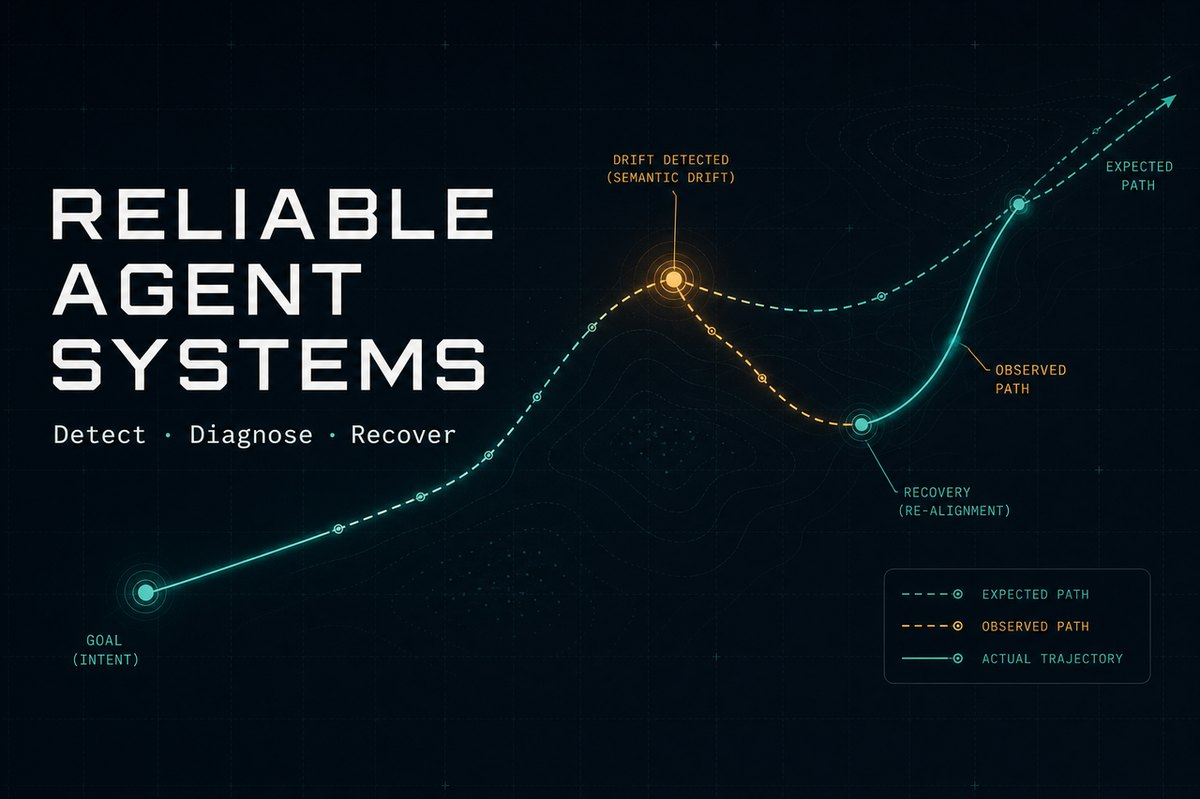
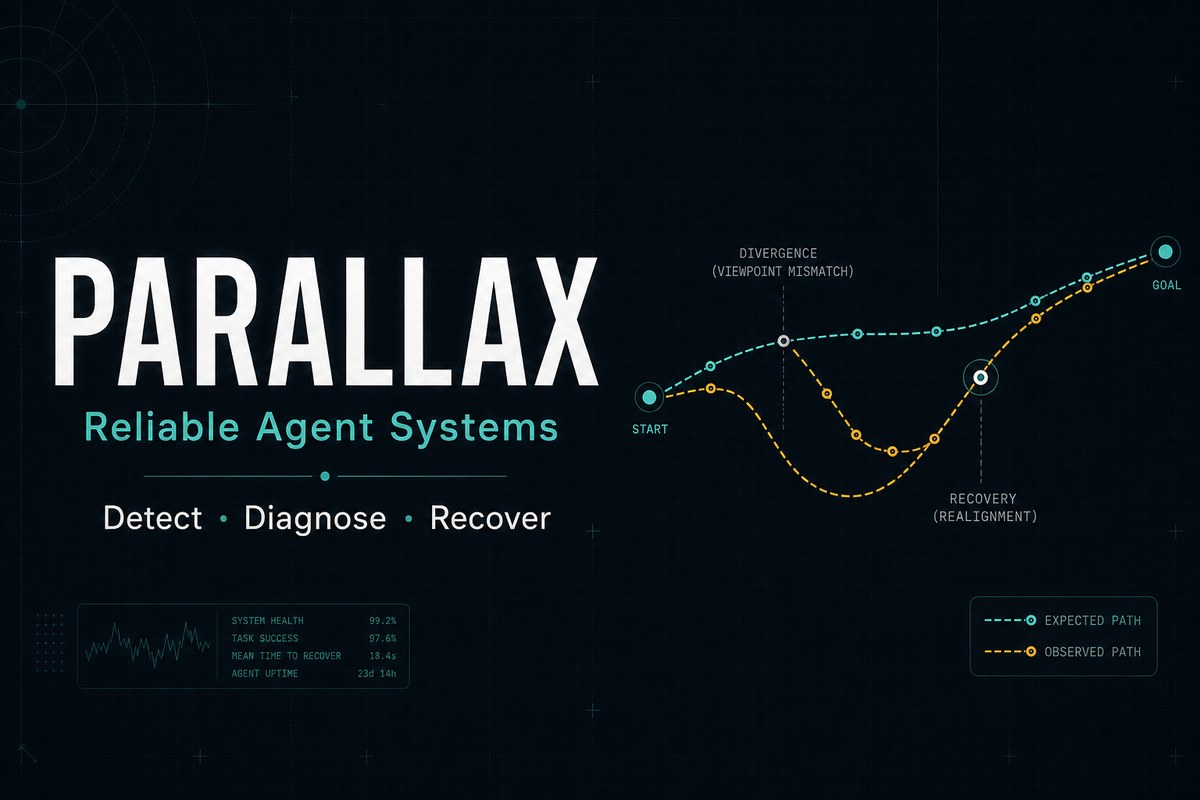
Rebrand README as Parallax with refreshed hero and asset links.
Align presentation with the renamed GitHub repository and keep the reliable-agent-systems research identity as the subtitle.

diff --git a/runtime/cli.py b/runtime/cli.py
@@ -6,7 +6,7 @@ from __future__ import annotations
 def main() -> None:
     from runtime import __version__
 
-    print(f"reliable-agent-systems {__version__}")
+    print(f"parallax {__version__}")
 
 
 if __name__ == "__main__":

diff --git a/scripts/generate_readme_assets.py b/scripts/generate_readme_assets.py
@@ -134,7 +134,7 @@ def draw_frame(active: int, pulse: float) -> Image.Image:
     gap_text = "aligned" if abs(0.82 - obs) < 0.05 else "divergence detected"
     draw.text((510, 436), f"Expected–observed gap: {gap_text}", fill=MUTED, font=detail_font)
 
-    draw.text((40, 488), "Reliable Agent Systems  ·  AgentFailBench × Semantic Monitor × RecoverAI", fill=MUTED, font=detail_font)
+    draw.text((40, 488), "Parallax  ·  AgentFailBench × Semantic Monitor × RecoverAI", fill=MUTED, font=detail_font)
     return img
 
 

diff --git a/README.md b/README.md
@@ -1,20 +1,20 @@
 <p align="center">
-  <img src="docs/assets/hero-banner.jpg" alt="Reliable Agent Systems — Detect, Diagnose, Recover" width="920" />
+  <img src="docs/assets/hero-banner.jpg" alt="Parallax — Reliable Agent Systems: Detect, Diagnose, Recover" width="920" />
 </p>
 
-<h1 align="center">Reliable Agent Systems</h1>
+<h1 align="center">Parallax</h1>
 
 <p align="center">
-  <strong>Detect when an agent is becoming unreliable — before the task fails.</strong>
+  <strong>When expectation and observation diverge, reliability is already failing.</strong>
 </p>
 
 <p align="center">
   Runtime reliability, diagnosis, and recovery for autonomous AI agents.<br/>
-  <em>AgentFailBench</em> · <em>Semantic Runtime Monitor</em> · <em>RecoverAI</em>
+  Research stack: <em>AgentFailBench</em> · <em>Semantic Runtime Monitor</em> · <em>RecoverAI</em>
 </p>
 
 <p align="center">
-  <a href="https://github.com/askmy-stack/reliable-agent-systems/actions/workflows/ci.yml"><img alt="CI" src="https://github.com/askmy-stack/reliable-agent-systems/actions/workflows/ci.yml/badge.svg" /></a>
+  <a href="https://github.com/askmy-stack/parallax/actions/workflows/ci.yml"><img alt="CI" src="https://github.com/askmy-stack/parallax/actions/workflows/ci.yml/badge.svg" /></a>
   <a href="https://www.python.org/downloads/"><img alt="Python 3.12+" src="https://img.shields.io/badge/python-3.12%2B-0d9488?logo=python&logoColor=white" /></a>
   <a href="LICENSE"><img alt="License MIT" src="https://img.shields.io/badge/license-MIT-1f2933" /></a>
   <a href="docs/research-proposal.md"><img alt="Research" src="https://img.shields.io/badge/status-research%20scaffold-f59e0b" /></a>
@@ -23,27 +23,25 @@
 
 ---
 
-## Why this exists
+## Why Parallax?
 
-Most agent stacks measure the wrong thing.
+In optics, **parallax** is the apparent shift of an object when viewed from two positions.
 
-Final task success. Token spend. HTTP status codes. Model confidence.
+In agent systems, the same failure mode appears as a gap between:
 
-Those signals miss the failures that matter in long-horizon tool use:
+| Viewpoint | Signal |
+| --- | --- |
+| **Expectation** | What the agent believed a tool, memory, or plan step meant |
+| **Observation** | What the environment actually returned |
 
-- the API returns **200** but a field’s **meaning** changed
-- memory is consistent — and **stale**
-- retrieval looks relevant — and **outdated**
-- the planner revises forever and never progresses
-
-By the time the task fails, the useful diagnostic window is gone.
+If those viewpoints drift while HTTP still returns `200`, classic monitors stay quiet — and the task fails later, with the diagnostic window already closed.
 
 <p align="center">
   <img src="docs/assets/semantic-drift.gif" alt="Animated expected vs observed path divergence (semantic drift)" width="720" />
 </p>
 
 <p align="center">
-  <em>Expectation and observation can diverge without throwing an exception.</em>
+  <em>Parallax measures that gap early — then diagnoses and recovers.</em>
 </p>
 
 ### Central question
@@ -58,9 +56,9 @@ By the time the task fails, the useful diagnostic window is gone.
   <img src="docs/assets/semantic-mismatch.jpg" alt="Expectation vs observation: tool semantic drift with HTTP 200" width="920" />
 </p>
 
-**Tool semantic drift** is the first vertical slice: the schema stays valid, the transport succeeds, and the agent silently acts on the wrong world model.
+**Tool semantic drift** is the first vertical slice: schema stays valid, transport succeeds, meaning changes. The agent acts on the wrong world model — and nothing throws.
 
-AgentFailBench injects that class of failure with ground-truth labels so detectors and recovery policies can be evaluated — not just demoed.
+AgentFailBench injects that class of failure with ground-truth labels so detectors and recovery policies can be evaluated, not just demoed.
 
 ---
 
@@ -129,8 +127,8 @@ flowchart TB
 Requires **Python 3.12+**.
 
 ```bash
-git clone https://github.com/askmy-stack/reliable-agent-systems.git
-cd reliable-agent-systems
+git clone https://github.com/askmy-stack/parallax.git
+cd parallax
 
 python -m venv .venv
 source .venv/bin/activate   # Windows: .venv\Scripts\activate
@@ -158,7 +156,7 @@ cat agentfailbench/failures/tool_drift/tool-semantic-drift-001.yaml
 ## Repository map
 
 ```text
-reliable-agent-systems/
+parallax/
 ├── agentfailbench/     # benchmark cases + injectors
 ├── runtime/            # semantic monitor + detectors
 ├── recovery/           # RecoverAI policies
@@ -215,11 +213,11 @@ Security reports: [`SECURITY.md`](SECURITY.md).
 ## Citation
 
 ```bibtex
-@software{kamineni2026reliable,
-  author = {Kamineni, Abhinaysai},
-  title  = {Reliable Agent Systems: Runtime Reliability, Diagnosis, and Recovery for Autonomous AI Agents},
-  year   = {2026},
-  url    = {https://github.com/askmy-stack/reliable-agent-systems},
+@software{parallax2026,
+  author  = {Kamineni, Abhinaysai},
+  title   = {Parallax: Reliable Agent Systems},
+  year    = {2026},
+  url     = {https://github.com/askmy-stack/parallax},
   version = {0.1.0}
 }
 ```

diff --git a/docs/assets/README.md b/docs/assets/README.md
@@ -1,6 +1,6 @@
 # Visual assets
 
-README and docs media for Reliable Agent Systems.
+README and docs media for **Parallax** (Reliable Agent Systems).
 
 | File | Purpose |
 | --- | --- |